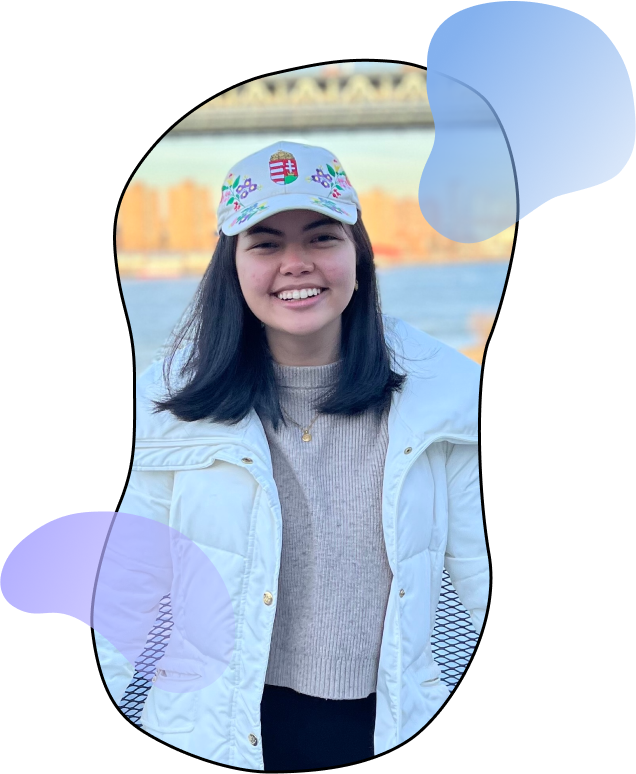
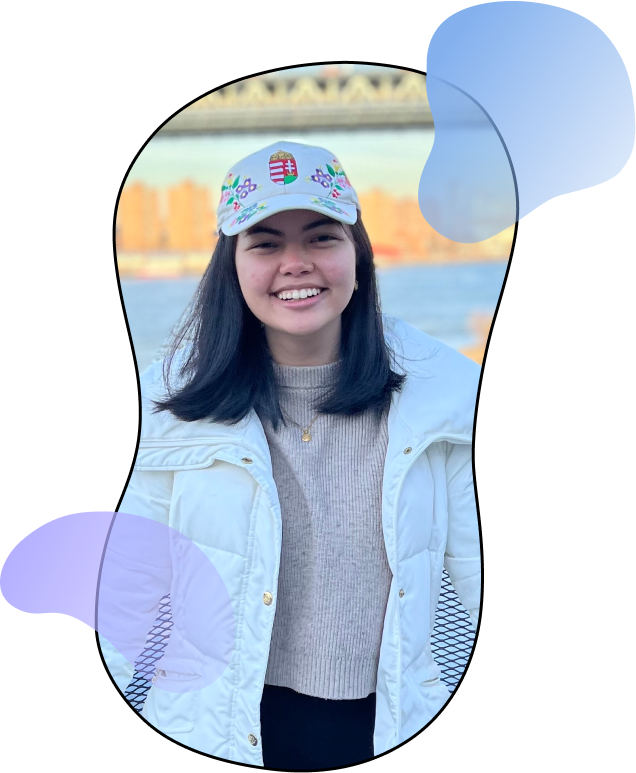
Refined animations

diff --git a/src/styles/styles.css b/src/styles/styles.css
@@ -205,7 +205,7 @@ a {
   transition: all 0.3s ease;
 }
 .button:hover {
-  background-color: #ef9037;
+  background-color: #ff9f45;
   box-shadow: 0 4px 8px 0 #f6bd88, 0 6px 20px 0 #f6bd88;
 }
 .button:active {
@@ -218,11 +218,11 @@ svg {
   transition: all 0.5s ease;
 }
 svg:hover {
-  fill: #ecb86f;
+  fill: white;
   transform: scale(1.2);
 }
 svg:active {
-  fill: #84b1ee;
+  fill: #6cacff;
 }
 
 .socials {
@@ -265,16 +265,16 @@ nav {
   color: black;
   font-family: Maragsa;
   letter-spacing: 0.05em;
-  transition: all 0.5s ease;
+  transition: all 0.3s ease;
 }
 .nav_logo:hover {
   color: white;
+  text-shadow: 0px 3px 10px white;
+  text-decoration: none;
 }
 .nav_logo:active {
-  text-decoration: underline;
-  -webkit-text-decoration-style: dotted;
-          text-decoration-style: dotted;
-  text-decoration-thickness: 3px;
+  text-shadow: none;
+  text-shadow: 0px -3px 10px #FFEFD8;
   color: #FFEFD8;
 }
 
@@ -295,13 +295,14 @@ nav {
 #home {
   background-attachment: fixed;
   background-repeat: no-repeat;
-  background-position: center;
+  background-position: center center;
   display: flex;
   flex-direction: column;
   justify-content: center;
   align-items: center;
   background-color: #FFEFD8;
   background-image: url("../layout/home.png");
+  background-size: cover;
   height: 100vh;
   font-size: 25px;
 }
@@ -360,7 +361,11 @@ nav {
   align-items: center;
 }
 .about-container img {
-  width: 40%;
+  width: 32%;
+  transition: all 0.3s ease;
+}
+.about-container img:hover {
+  transform: scale(1.05) rotate(1deg) translate(0px, 0px) skew(0deg, 0deg);
 }
 @media only screen and (max-width: 56.26em) {
   .about-container {
@@ -379,7 +384,7 @@ nav {
 #projects {
   background-attachment: fixed;
   background-repeat: no-repeat;
-  background-position: center;
+  background-position: center center;
   background-image: url("../layout/projects.png"), linear-gradient(270deg, #86b1ee 0%, rgba(255, 255, 255, 0) 80%);
   text-align: center;
 }
@@ -392,7 +397,7 @@ nav {
 #designs {
   background-attachment: fixed;
   background-repeat: no-repeat;
-  background-position: center;
+  background-position: center center;
   background-image: url("../layout/designs.png"), linear-gradient(90deg, #b1adff 0%, rgba(255, 255, 255, 0) 80%);
   text-align: center;
 }
@@ -421,7 +426,7 @@ nav {
   transition: all 0.3s ease;
 }
 .card:hover {
-  box-shadow: 0 0 20px 0 #8a8a8a;
+  box-shadow: 0 0 20px 0 hsla(0deg, 0%, 54%, 0.6);
   transform: scale(1.05) rotate(1deg) translate(0px, 0px) skew(0deg, 0deg);
 }
 .card img {
@@ -476,7 +481,7 @@ nav {
 #contact {
   background-attachment: fixed;
   background-repeat: no-repeat;
-  background-position: center;
+  background-position: center center;
   background-color: #FFEFD8;
   background-image: url("../layout/contact_temp.png");
   color: black;
@@ -515,16 +520,30 @@ footer {
   flex-direction: none;
   justify-content: center;
   align-items: center;
+  background-image: linear-gradient(to right, #f6bd88 0%, #b1adff 43.23%, #86b1ee 68.75%, #71dad5 100%);
   text-align: center;
-  background-image: linear-gradient(270deg, #f6bd88 0%, #b1adff 43.23%, #86b1ee 68.75%, #71dad5 100%);
   border: 2px solid #000000;
   border-top: 0px;
   height: 50px;
+}
+footer button {
+  border: none;
+  height: 100%;
+  width: 100%;
+  background-size: 300% 100%;
+  transition: all 0.5s ease-in-out;
+  background-image: linear-gradient(to right, #f6bd88 0%, #b1adff 43.23%, #86b1ee 68.75%, #71dad5 100%);
+}
+footer button:hover {
+  background-position: 100% 0;
+  transition: all 0.5s ease-in-out;
+  background-image: linear-gradient(to right, #f6bd88 0%, #b1adff 43.23%, #86b1ee 68.75%, #71dad5 100%);
 }
 footer p {
   padding-top: 15px;
   font-size: 18px;
   margin: 0px 20px;
+  font-family: Inter;
 }
 
 /* 

diff --git a/src/styles/styles.scss b/src/styles/styles.scss
@@ -114,12 +114,13 @@ svg {
   transition: all 0.5s ease;
 
   &:hover {
-    fill: #ecb86f;
+    // fill: #ecb86f;
+    fill: white;
     transform: scale(1.2);
   }
 
   &:active {
-    fill: #84b1ee;
+    fill: $blueDark;
   }
 }
 
@@ -136,13 +137,7 @@ svg {
   * NAVIGATION BAR 
   */
 nav {
-  background-image: linear-gradient(
-    90deg,
-    $peachA 0%,
-    $purpleA 43.23%,
-    $blueA 68.75%,
-    $turquoiseA 100%
-  );
+  background-image: $gradientA;
   border-bottom: 2px solid #000000;
   display: flex;
   justify-content: space-between;
@@ -171,16 +166,17 @@ nav {
   color: $textColor;
   font-family: Maragsa;
   letter-spacing: 0.05em;
-  transition: all 0.5s ease;
+  transition: all 0.3s ease;
 
   &:hover {
     color: white;
+    text-shadow: 0px 3px 10px white;
+    text-decoration: none;
   }
 
   &:active {
-    text-decoration: underline;
-    text-decoration-style: dotted;
-    text-decoration-thickness: 3px;
+    text-shadow: none;
+    text-shadow: 0px -3px 10px $background;
     color: $background;
   }
 }
@@ -204,6 +200,7 @@ nav {
   @include center(column);
   background-color: $background;
   background-image: url("../layout/home.png");
+  background-size: cover;
   height: 100vh;
   font-size: 25px;
 
@@ -256,7 +253,12 @@ nav {
   align-items: center;
 
   img {
-    width: 40%;
+    width: 32%;
+    transition: all 0.3s ease;
+
+    &:hover {
+      transform: scale(1.05) rotate(1deg) translate(0px, 0px) skew(0deg, 0deg);
+    }
   }
 
   @include respond(tab-port) {
@@ -314,7 +316,7 @@ nav {
   transition: all 0.3s ease;
 
   &:hover {
-    box-shadow: 0 0 20px 0 #8a8a8a;
+    box-shadow: 0 0 20px 0 hsla(0, 0%, 54%, 60%);
     transform: scale(1.05) rotate(1deg) translate(0px, 0px) skew(0deg, 0deg);
   }
   
@@ -406,22 +408,32 @@ nav {
 
 footer {
   @include center(none);
+  background-image: $gradient;
   text-align: center;
-  background-image: linear-gradient(
-    270deg,
-    $peach 0%,
-    $purple 43.23%,
-    $blue 68.75%,
-    $turquoise 100%
-  );
   border: 2px solid #000000;
   border-top: 0px;
   height: 50px;
+
+  button {
+    border: none;
+    height: 100%;
+    width: 100%;
+    background-size: 300% 100%;
+    transition: all .5s ease-in-out;
+    background-image: $gradient;
+    
+    &:hover {
+      background-position: 100% 0;
+      transition: all .5s ease-in-out;
+      background-image: $gradient;
+    }
+  }
 
   p {
     padding-top: 15px;
     font-size: 18px;
     margin: 0px 20px;
+    font-family: Inter;
   }
 }
 

diff --git a/index.html b/index.html
@@ -192,10 +192,13 @@
             </div>
         </section>
         <footer>
-            <p class="subtext">
-                This website was designed & coded from scratch by Misha Reyes
-                using HTML, CSS, Sass, & JavaScript :D
-            </p>
+            <!-- TODO: make this into a hidden page, to talk abt design process of website -->
+            <button>
+                <p class="subtext">
+                    This website was designed & coded from scratch by Misha Reyes
+                    using HTML, CSS, Sass, & JavaScript :D
+                </p>
+            </button>
         </footer>
         <script src="src/app.js"></script>
     </body>

diff --git a/src/styles/_variables.scss b/src/styles/_variables.scss
@@ -6,15 +6,29 @@ $purple: #b1adff;
 $peach: #f6bd88;
 $blue: #86b1ee;
 $turquoise: #71dad5;
+$gradient: linear-gradient(
+    to right,
+    $peach 0%,
+    $purple 43.23%,
+    $blue 68.75%,
+    $turquoise 100%
+);
 
 // with alpha
 $purpleA: hsla(243deg, 100%, 84%, 0.8);
 $peachA: hsla(29deg, 86%, 75%, 0.8);
 $blueA: hsla(215deg, 76%, 73%, 0.8);
 $turquoiseA: hsla(177deg, 59%, 65%, 0.8);
+$gradientA: linear-gradient(
+    90deg,
+    $peachA 0%,
+    $purpleA 43.23%,
+    $blueA 68.75%,
+    $turquoiseA 100%
+);
 
 // darker
-$peachDark: #ef9037;
+$peachDark: #ff9f45;
 $blueDark: #6cacff;
 
 // lighter

diff --git a/src/styles/_mixins.scss b/src/styles/_mixins.scss
@@ -1,7 +1,7 @@
 @mixin bgImage() {
     background-attachment: fixed;
     background-repeat: no-repeat;
-    background-position: center;
+    background-position: center center;
 }
 
 @mixin italicize() {
